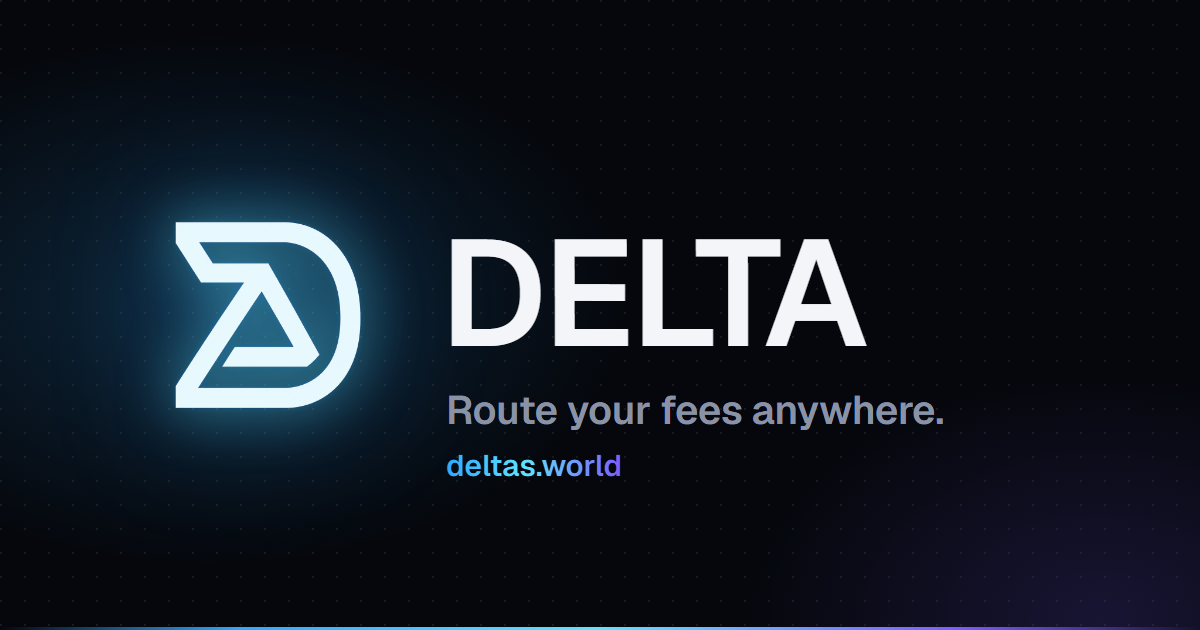
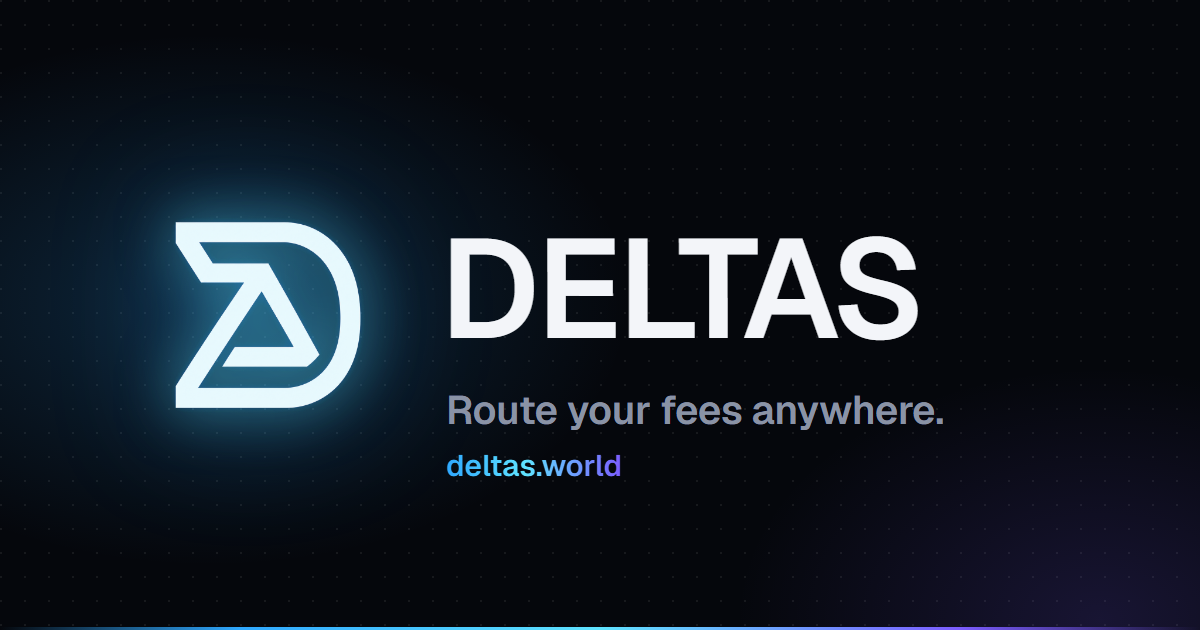
DELTA becomes DELTAS, and the token $DELTAS
The brand, the default token symbol, the wordmark, the share card, the
token's logo file and every line of copy in the site and the bot. The
signed messages, the webhook headers (X-Deltas-Event, X-Deltas-Signature)
and the domain-claim record (_deltas.<domain>, deltas-verify=) follow; no
domain page or launchpad key depended on the old names.

Changed region(s): [[0.37, 0.3619, 0.7708, 0.573]]

diff --git a/frontend/components/Developers.js b/frontend/components/Developers.js
@@ -118,7 +118,7 @@ const RULES = {
   json: [[/"(?:\\.|[^"\\])*"(?=\s*:)/, 'text-ink'], [/"(?:\\.|[^"\\])*"/, 'text-hood-700'], [/\b(?:true|false|null)\b/, 'text-violet-700'], [/-?\b\d+(?:\.\d+)?(?:e[+-]?\d+)?\b/, 'text-cyan-500'], [/^… .*$/, 'text-dim']],
   sh: [[/'[^']*'|"[^"]*"/, 'text-hood-700'], [/(?<=\s)-{1,2}[A-Za-z]+/, 'text-cyan-500'], [/\bcurl\b/, 'text-ink'], [/\\$/, 'text-dim']],
   js: [[/\/\/.*$/, 'text-dim'], [/'[^']*'|`[^`]*`/, 'text-hood-700'], [/\b(?:import|from|const|await|return|if|throw|new)\b/, 'text-violet-700'], [/\b\d+\b/, 'text-cyan-500']],
-  http: [[/^POST\b/, 'text-violet-700'], [/^X-Delta-[A-Za-z]+(?=:)/, 'text-cyan-500'], [/^[A-Za-z-]+(?=:)/, 'text-ink'], [/sha256=\S+/, 'text-hood-700'], [/#.*$/, 'text-dim']],
+  http: [[/^POST\b/, 'text-violet-700'], [/^X-Deltas-[A-Za-z]+(?=:)/, 'text-cyan-500'], [/^[A-Za-z-]+(?=:)/, 'text-ink'], [/sha256=\S+/, 'text-hood-700'], [/#.*$/, 'text-dim']],
   html: [[/"[^"]*"/, 'text-hood-700'], [/<\/?[a-z]+|\/?>/, 'text-violet-700'], [/\b[a-z]+(?==)/, 'text-cyan-500']],
 };
 function paint(text, lang) {
@@ -316,7 +316,7 @@ const HOOK = {
     { lang: 'json', text: json({ code: 'K7Q2MX4P', status: 'linked', token: RH_TOKEN, launchpad: 'your-launchpad', createdAt: '2026-09-28T18:02:11.000Z', linkedAt: '2026-09-28T18:05:40.000Z', config: { active: true, rewardMode: 'fixed', rewardToken: RH_NVDA, scheduleKind: 'closing_bell', intervalMinutes: null }, dashboardUrl: `${BASE}/${RH_TOKEN}`, badgeUrl: `${BASE}/api/badge/${RH_TOKEN}` }) },
   ],
   webhook: [
-    { lang: 'http', text: 'POST https://yoursite.com/webhooks/delta\nContent-Type: application/json\nX-Delta-Event: dividend.paid\nX-Delta-Signature: sha256=9f2c41…e07b\nUser-Agent: DELTA-Webhooks/1.0' },
+    { lang: 'http', text: 'POST https://yoursite.com/webhooks/deltas\nContent-Type: application/json\nX-Deltas-Event: dividend.paid\nX-Deltas-Signature: sha256=9f2c41…e07b\nUser-Agent: DELTAS-Webhooks/1.0' },
     { lang: 'json', text: json({ event: 'dividend.paid', sentAt: '2026-09-28T20:00:09.412Z', token: RH_TOKEN, launchCode: 'K7Q2MX4P', executionId: 1204, asset: { address: RH_NVDA, symbol: 'NVDA', amount: '60142857142857142', valueWei: '140000000000000000' }, reward: { address: RH_NVDA, symbol: 'NVDA', decimals: 18, isStock: true, mode: 'fixed', note: null }, amount: '42100000000000000', holdersPaid: 412, holdersEligible: 468, txHash: '0xc16a…af39', receiptUrl: `${BASE}/receipt/1204`, dashboardUrl: `${BASE}/${RH_TOKEN}`, badgeUrl: `${BASE}/api/badge/${RH_TOKEN}` }) },
   ],
   verify: [
@@ -329,7 +329,7 @@ const mono = (t) => <code className="font-mono text-[12.5px] text-ink">{t}</code
 const STEPS = [
   { tab: 'create', call: 'POST /api/v1/hooks/launch', title: 'Send the launch', body: <>The coin&apos;s address, plus the creator wallet and the fee source if you know them. You get back {mono('telegramUrl')}, {mono('dashboardUrl')} and {mono('badgeUrl')}.</> },
   { tab: 'status', call: 'telegramUrl', title: 'Show the link', body: 'The creator opens Telegram, sends the dev key, picks a stock and a schedule. The coin and the fee source are already filled in.' },
-  { tab: 'webhook', call: 'token.linked · dividend.paid', title: 'Receive webhooks', body: <>Every event names itself in {mono('X-Delta-Event')} and is signed with HMAC-SHA256 in {mono('X-Delta-Signature')}. Poll {mono('GET ?code=')} if you prefer.</> },
+  { tab: 'webhook', call: 'token.linked · dividend.paid', title: 'Receive webhooks', body: <>Every event names itself in {mono('X-Deltas-Event')} and is signed with HMAC-SHA256 in {mono('X-Deltas-Signature')}. Poll {mono('GET ?code=')} if you prefer.</> },
 ];
 
 function Launchpads() {

diff --git a/frontend/components/preview/Preview.js b/frontend/components/preview/Preview.js
@@ -1,6 +1,6 @@
 'use client';
 
-// The next look of DELTA, in one page: a deep ground lit by the logo's glow,
+// The next look of DELTAS, in one page: a deep ground lit by the logo's glow,
 // glass panels with one lit edge, Geist, and the routing drawn as light that
 // enters once and leaves in channels. Nothing here uses the old frame grammar.
 import { useEffect, useRef, useState } from 'react';
@@ -47,7 +47,7 @@ const CHANNELS = [
   { key: 'holders', label: 'Holders', sub: 'paid in SOL, by balance', share: 50, icon: 'holders' },
   { key: 'page', label: '@yourchannel', sub: 'YouTube · its own vault', share: 20, icon: 'youtube' },
   { key: 'stock', label: 'Treasury', sub: 'holds NVDAx', share: 15, icon: 'stock' },
-  { key: 'burn', label: 'Buyback and burn', sub: 'buys $DELTA, burns it', share: 10, icon: 'burn' },
+  { key: 'burn', label: 'Buyback and burn', sub: 'buys $DELTAS, burns it', share: 10, icon: 'burn' },
   { key: 'phone', label: '+33 • •• •• •• 78', sub: 'a phone number · WhatsApp', share: 5, icon: 'phone' },
 ];
 
@@ -118,7 +118,7 @@ function Nav() {
       <div className="mx-auto flex max-w-6xl items-center justify-between px-5 py-4">
         <div className="flex items-center gap-2.5">
           <Mark className="h-9 w-9" />
-          <span className="text-[17px] font-medium tracking-[-0.01em]" style={{ color: G.ink }}>DELTA</span>
+          <span className="text-[17px] font-medium tracking-[-0.01em]" style={{ color: G.ink }}>DELTAS</span>
         </div>
         <nav className="hidden items-center gap-7 text-[14px] md:flex" style={{ color: G.mut }}>
           {['Pages', 'Claim', 'Guide', 'Stocks'].map((l) => <span key={l} className="transition-colors hover:text-white">{l}</span>)}
@@ -152,7 +152,7 @@ function Hero() {
       </div>
       <Glass lit="left" className="p-5 sm:p-7">
         <div className="mb-4 flex items-center justify-between">
-          <Label>Routing · $DELTA · cycle 0129</Label>
+          <Label>Routing · $DELTAS · cycle 0129</Label>
           <span className="flex items-center gap-2 text-[11px] uppercase tracking-[0.2em]" style={{ fontFamily: MONO, color: G.cyan }}><span className="h-1.5 w-1.5 animate-pulse rounded-full" style={{ background: G.cyan, boxShadow: `0 0 10px ${G.cyan}` }} />live</span>
         </div>
         <Flow />
@@ -243,7 +243,7 @@ function Token() {
       <Glass lit="left" className="grid gap-8 p-7 sm:p-9 lg:grid-cols-[auto_1fr_auto] lg:items-center">
         <div className="flex items-center gap-5">
           <div className="relative"><Mark className="h-20 w-20" /><span aria-hidden="true" className="absolute inset-0 -z-10 rounded-full blur-2xl" style={{ background: 'rgba(47,168,255,0.35)' }} /></div>
-          <div><Label>The token</Label><div className="mt-1 text-[34px] font-medium tracking-[-0.03em]" style={{ color: G.ink }}>$DELTA</div><div className="text-[13px]" style={{ color: G.mut }}>on Solana · routes its own fees</div></div>
+          <div><Label>The token</Label><div className="mt-1 text-[34px] font-medium tracking-[-0.03em]" style={{ color: G.ink }}>$DELTAS</div><div className="text-[13px]" style={{ color: G.mut }}>on Solana · routes its own fees</div></div>
         </div>
         <div className="min-w-0">
           <Label className="mb-2">Mint address</Label>

diff --git a/frontend/lib/guide.js b/frontend/lib/guide.js
@@ -31,7 +31,7 @@ export const GUIDE = [
       ...(BOT_URL ? [{ link: BOT_URL, label: `Open @${BOT_USERNAME} on Telegram` }] : []),
       { rows: [
         ['1. The creator wallet', 'The private key of the wallet that created the coin on pump.fun, the way Phantom exports it: base58, or the JSON array. It is encrypted the moment it arrives (in Telegram, your message is deleted too).', 'key'],
-        ['2. Your coin', 'Its mint address; on pump.fun it ends in {c:pump}. DELTA checks that this wallet is the creator pump.fun pays.', 'coin'],
+        ['2. Your coin', 'Its mint address; on pump.fun it ends in {c:pump}. DELTAS checks that this wallet is the creator pump.fun pays.', 'coin'],
         ['3. Fee source', 'Set for you: the creator fees pump.fun holds for this wallet, collected into it every cycle.', 'source'],
         ['4. The reward', 'What holders receive: {s:SOL}, an xStock (type its ticker: NVDA for {s:NVDAx}, SPY for {s:SPYx}), or any mint Jupiter knows.', 'asset'],
         ['5. Schedule', 'Every 1, 2, 5, 10, 30 or 60 minutes, or once a day at the closing bell. Any schedule can be limited to market hours.', 'clock'],
@@ -76,7 +76,7 @@ export const GUIDE = [
       { link: '/claim', label: 'Go to the claim page' },
       { steps: [
         { title: 'Sign in with the platform', body: `{p:youtube|YouTube}, {p:github|GitHub}, {p:x|X}, {p:instagram|Instagram}, {p:facebook|Facebook}, {p:tiktok|TikTok} and {p:twitch|Twitch} open a sign-in on the platform itself, read only: ${BRAND} sees which pages your account runs and nothing else. The access token is dropped right after, never stored. Your pages then appear with what waits in their vault.`, p: 'youtube' },
-        { title: 'For a website, a DNS record', body: 'Type the domain and connect your wallet. The page gives you a TXT record to add on {c:_delta.<yourdomain>}. Once it spreads, usually within minutes, the domain is yours to claim.', p: 'domain' },
+        { title: 'For a website, a DNS record', body: 'Type the domain and connect your wallet. The page gives you a TXT record to add on {c:_deltas.<yourdomain>}. Once it spreads, usually within minutes, the domain is yours to claim.', p: 'domain' },
         { title: 'For a phone number, a code', body: 'Type the number with its country code and choose {p:phone|WhatsApp} or SMS. A six-digit code arrives; type it, and the number is proved. The site only ever shows the number masked, like {c:+33 • •• •• •• 78}, and a phone page has an address of its own, so no link carries the number.', p: 'phone' },
         { title: 'Connect the wallet that gets paid', body: 'Pick the chain: a Solana wallet (Phantom, Solflare, Backpack) for what Solana coins pay, a Robinhood Chain wallet (MetaMask, Rabby) for the rest. Sign the message: it says which page pays which wallet, on which chain, and nothing else. It is a signature, not a transaction.' },
         { title: 'Receive', body: 'What waited in the vault arrives within minutes. Every later cycle pays your wallet directly. To change the wallet later, sign again from the new one.' },

diff --git a/frontend/lib/brand.js b/frontend/lib/brand.js
@@ -1,9 +1,9 @@
 // Everything that names the product lives here: the brand, its links and its
 // token. Change a handle or the domain in the environment, not in components.
-export const BRAND = 'DELTA';
+export const BRAND = 'DELTAS';
 export const TAGLINE = 'Route your fees anywhere';
 export const DESCRIPTION =
-  'DELTA routes the creator fees of any coin, on Solana and on Robinhood Chain: to holders, to wallets, to a buyback, to a treasury, and to any page on the internet. A YouTube channel, a GitHub account, a domain, an Instagram or a Facebook page, a phone number gets its own vault; its owner proves it and claims.';
+  'DELTAS routes the creator fees of any coin, on Solana and on Robinhood Chain: to holders, to wallets, to a buyback, to a treasury, and to any page on the internet. A YouTube channel, a GitHub account, a domain, an Instagram or a Facebook page, a phone number gets its own vault; its owner proves it and claims.';
 
 // The domain moves with NEXT_PUBLIC_SITE_URL. The fallback is the domain the
 // product runs on.
@@ -25,10 +25,10 @@ export const CONTACT_EMAIL = process.env.NEXT_PUBLIC_CONTACT_EMAIL || 'hello@del
 
 // The project token. Empty until it is live: every token feature (lottery,
 // missions, the live link) stays off while the address is missing.
-export const TOKEN_SYMBOL = (process.env.NEXT_PUBLIC_TOKEN_SYMBOL || 'DELTA').replace(/^\$/, '');
+export const TOKEN_SYMBOL = (process.env.NEXT_PUBLIC_TOKEN_SYMBOL || 'DELTAS').replace(/^\$/, '');
 export const TOKEN_CA = process.env.NEXT_PUBLIC_TOKEN_CA || '';
 export const TOKEN = `$${TOKEN_SYMBOL}`;
-// Which chain the project token lives on: $DELTA is a pump.fun coin on Solana. The lottery and
+// Which chain the project token lives on: $DELTAS is a pump.fun coin on Solana. The lottery and
 // missions run on Robinhood Chain only, so they stay off for a Solana token.
 export const TOKEN_CHAIN = !TOKEN_CA ? null : /^0x[0-9a-fA-F]{40}$/.test(TOKEN_CA) ? 'robinhood' : 'solana';
 export const TOKEN_ON_EVM = TOKEN_CHAIN === 'robinhood';

diff --git a/backend/src/brand.js b/backend/src/brand.js
@@ -4,23 +4,23 @@ import dotenv from 'dotenv';
 
 dotenv.config();
 
-export const BRAND = 'DELTA';
+export const BRAND = 'DELTAS';
 export const TAGLINE = 'Route your fees anywhere';
 export const SITE_URL = (process.env.WEBSITE_URL || process.env.FRONTEND_URL || 'https://deltas.world').replace(/\/+$/, '');
 export const SITE_HOST = SITE_URL.replace(/^https?:\/\//, '');
 export const X_HANDLE = (process.env.X_HANDLE || '').replace(/^@/, '');
 export const X_URL = process.env.X_URL || (X_HANDLE ? `https://x.com/${X_HANDLE}` : '');
 // How a shared post names us: the X account when there is one, else the name.
-export const CREDIT = X_HANDLE ? `@${X_HANDLE}` : 'DELTA';
+export const CREDIT = X_HANDLE ? `@${X_HANDLE}` : 'DELTAS';
 export const COMMUNITY_URL = process.env.COMMUNITY_URL || '';
 
 // The project token. Unset until it is live: the holders-only gate, the default
 // of /burns and the lottery stay off while the address is missing. A Solana
-// mint ($DELTA on pump.fun) keeps its case; a 0x address is lower-cased.
+// mint ($DELTAS on pump.fun) keeps its case; a 0x address is lower-cased.
 const isEvm = (a) => /^0x[0-9a-fA-F]{40}$/.test(String(a || ''));
 const isSol = (a) => /^[1-9A-HJ-NP-Za-km-z]{32,44}$/.test(String(a || ''));
 const RAW_TOKEN = String(process.env.PROJECT_TOKEN_ADDRESS || '').trim();
 export const PROJECT_TOKEN = isEvm(RAW_TOKEN) ? RAW_TOKEN.toLowerCase() : isSol(RAW_TOKEN) ? RAW_TOKEN : null;
 export const PROJECT_CHAIN = PROJECT_TOKEN ? (isEvm(PROJECT_TOKEN) ? 'robinhood' : 'solana') : null;
-export const TOKEN_SYMBOL = (process.env.PROJECT_TOKEN_SYMBOL || 'DELTA').replace(/^\$/, '');
+export const TOKEN_SYMBOL = (process.env.PROJECT_TOKEN_SYMBOL || 'DELTAS').replace(/^\$/, '');
 export const TOKEN = `$${TOKEN_SYMBOL}`;

diff --git a/frontend/lib/oauth.js b/frontend/lib/oauth.js
@@ -49,7 +49,7 @@ export const PROVIDERS = {
     authorize: 'https://github.com/login/oauth/authorize', scope: 'read:org',
     token: (p) => postForm('https://github.com/login/oauth/access_token', p),
     async identities(token) {
-      const h = { ...bearer(token), 'X-GitHub-Api-Version': '2022-11-28', 'User-Agent': 'DELTA' };
+      const h = { ...bearer(token), 'X-GitHub-Api-Version': '2022-11-28', 'User-Agent': 'DELTAS' };
       const me = await getJson('https://api.github.com/user', { headers: h });
       const out = [{ id: `u${me.id}`, handles: [me.login], name: me.name || me.login, avatar: me.avatar_url }];
       // Organisations count when the account is one of their owners.
@@ -260,11 +260,11 @@ export async function identityFor(platform, handle) {
 }
 
 /* ---------------- domains: a DNS TXT record ---------------- */
-export const DNS_PREFIX = '_delta';
+export const DNS_PREFIX = '_deltas';
 /** The code a domain owner publishes. Bound to the wallet, so a record proves "this domain pays this wallet". */
 export function domainCode(domain, wallet) {
   const mac = crypto.createHmac('sha256', secret()).update(`domain.${String(domain).toLowerCase()}.${String(wallet).toLowerCase()}`).digest('hex');
-  return `delta-verify=${mac.slice(0, 40)}`;
+  return `deltas-verify=${mac.slice(0, 40)}`;
 }
 
 export async function domainProved(domain, wallet) {

diff --git a/backend/src/services/webhooks.js b/backend/src/services/webhooks.js
@@ -1,6 +1,6 @@
 // Webhooks to launchpads. Every event is a JSON POST signed with HMAC-SHA256
 // over the raw body using the launchpad's webhook secret (header
-// X-Delta-Signature: sha256=<hex>), plus X-Delta-Event and a timestamp.
+// X-Deltas-Signature: sha256=<hex>), plus X-Deltas-Event and a timestamp.
 // Delivery is best effort with one retry; failures never affect the cycle.
 import crypto from 'crypto';
 import * as db from '../db/queries.js';
@@ -12,8 +12,8 @@ export function sign(secret, body) {
 
 async function post(launchpad, event, payload) {
   const body = JSON.stringify({ event, sentAt: new Date().toISOString(), ...payload });
-  const headers = { 'Content-Type': 'application/json', 'X-Delta-Event': event, 'User-Agent': 'DELTA-Webhooks/1.0' };
-  if (launchpad.webhook_secret) headers['X-Delta-Signature'] = sign(launchpad.webhook_secret, body);
+  const headers = { 'Content-Type': 'application/json', 'X-Deltas-Event': event, 'User-Agent': 'DELTAS-Webhooks/1.0' };
+  if (launchpad.webhook_secret) headers['X-Deltas-Signature'] = sign(launchpad.webhook_secret, body);
   let status = 0;
   let ok = false;
   for (let attempt = 0; attempt < 2 && !ok; attempt++) {

diff --git a/frontend/lib/walletMessages.js b/frontend/lib/walletMessages.js
@@ -7,7 +7,7 @@ import { chainOf, normAddress } from './chains';
 const chainLine = (wallet) => (chainOf(wallet) === 'solana' ? 'Solana' : 'Robinhood Chain (4663)');
 
 export const loginMessage = ({ wallet, nonce, issuedAt }) =>
-  `DELTA dashboard login\nChain: ${chainLine(wallet)}\nWallet: ${wallet}\nNonce: ${nonce}\nIssued: ${issuedAt}\n\nThis signature costs no gas and only proves you own this wallet.`;
+  `DELTAS dashboard login\nChain: ${chainLine(wallet)}\nWallet: ${wallet}\nNonce: ${nonce}\nIssued: ${issuedAt}\n\nThis signature costs no gas and only proves you own this wallet.`;
 
 export const revealMessage = ({ wallet, devWallet, nonce, issuedAt }) =>
-  `DELTA: reveal my dev wallet private key\nDev wallet: ${normAddress(String(devWallet))}\nSigned in as: ${normAddress(String(wallet))}\nNonce: ${nonce}\nIssued: ${issuedAt}\n\nOnly sign this on ${SITE_HOST}. Anyone holding the key controls the fees.`;
+  `DELTAS: reveal my dev wallet private key\nDev wallet: ${normAddress(String(devWallet))}\nSigned in as: ${normAddress(String(wallet))}\nNonce: ${nonce}\nIssued: ${issuedAt}\n\nOnly sign this on ${SITE_HOST}. Anyone holding the key controls the fees.`;

diff --git a/frontend/app/api/claim/route.js b/frontend/app/api/claim/route.js
@@ -62,7 +62,7 @@ export async function POST(request) {
     // 1. The page is theirs.
     let identity = null;
     if (platform === 'domain') {
-      if (!(await domainProved(handle, wallet))) return Response.json({ error: `The TXT record was not found on _delta.${handle}. DNS changes can take a few minutes to spread.` }, { status: 403 });
+      if (!(await domainProved(handle, wallet))) return Response.json({ error: `The TXT record was not found on _deltas.${handle}. DNS changes can take a few minutes to spread.` }, { status: 403 });
     } else {
       identity = await identityFor(platform, handle);
       if (!identity) return Response.json({ error: platform === 'phone' ? 'Prove the number with the code first' : `Sign in with ${PLATFORMS[platform].label} as the owner of ${pageName(platform, handle)} first` }, { status: 403 });

diff --git a/frontend/components/LiveFeed.js b/frontend/components/LiveFeed.js
@@ -56,7 +56,7 @@ function demoEvent(id) {
     const inSol = Math.random() < 0.3;
     return {
       id, type: 'paid', demo: true, chain: 'solana',
-      sourceSymbol: TOKEN_SYMBOL, sourceLogo: '/logos/tokens/DELTA.png',
+      sourceSymbol: TOKEN_SYMBOL, sourceLogo: '/logos/tokens/DELTAS.png',
       rewardToken: inSol ? SOL_MINT : pickOne(DEMO_X).mint,
       holderCount: 8 + Math.floor(Math.random() * 90),
       claimedEth: String(Math.round((0.02 + Math.random() * 1.6) * 1e9)),
@@ -65,7 +65,7 @@ function demoEvent(id) {
   }
   return {
     id, type: 'linked', demo: true, chain: 'solana',
-    sourceSymbol: TOKEN_SYMBOL, sourceLogo: '/logos/tokens/DELTA.png',
+    sourceSymbol: TOKEN_SYMBOL, sourceLogo: '/logos/tokens/DELTAS.png',
     rewardToken: pickOne(DEMO_X).mint,
     holderCount: null, claimedEth: null,
     time,

diff --git a/frontend/lib/meta.js b/frontend/lib/meta.js
@@ -6,7 +6,7 @@ import { BRAND, SITE_URL, X_HANDLE } from './brand';
 // The card is a file of the site. The version in the address changes when the
 // artwork does: chat apps keep a preview image for as long as its address stays
 // the same.
-export const CARD_IMAGE = { url: '/brand/delta-card.png?v=3', width: 1200, height: 630, alt: `${BRAND}: route fees, your way` };
+export const CARD_IMAGE = { url: '/brand/delta-card.png?v=4', width: 1200, height: 630, alt: `${BRAND}: route fees, your way` };
 export const HOME_TITLE = `${BRAND} · Route your coin's fees anywhere`;
 export const HOME_DESCRIPTION =
   "Route your coin's creator fees on Solana (and Robinhood Chain) to holders, a buyback, a treasury in real stocks, or any page on the internet: a YouTube channel, a GitHub repo, a phone number.";

diff --git a/frontend/lib/queries.js b/frontend/lib/queries.js
@@ -108,7 +108,7 @@ export async function getYieldInputs(address = null) {
   return rows;
 }
 
-/** What DELTA has bought for a config's treasury, grouped by asset. */
+/** What DELTAS has bought for a config's treasury, grouped by asset. */
 export async function getTreasuryLedger(configId) {
   const sql = getSql();
   return await sql`
@@ -136,7 +136,7 @@ export async function getReceipt(id) {
   return row || null;
 }
 
-/** Everything a wallet has received across every DELTA token, plus its current holdings. */
+/** Everything a wallet has received across every DELTAS token, plus its current holdings. */
 export async function getWalletStatement(address) {
   const sql = getSql();
   const w = /^0x/.test(address) ? address.toLowerCase() : address;
